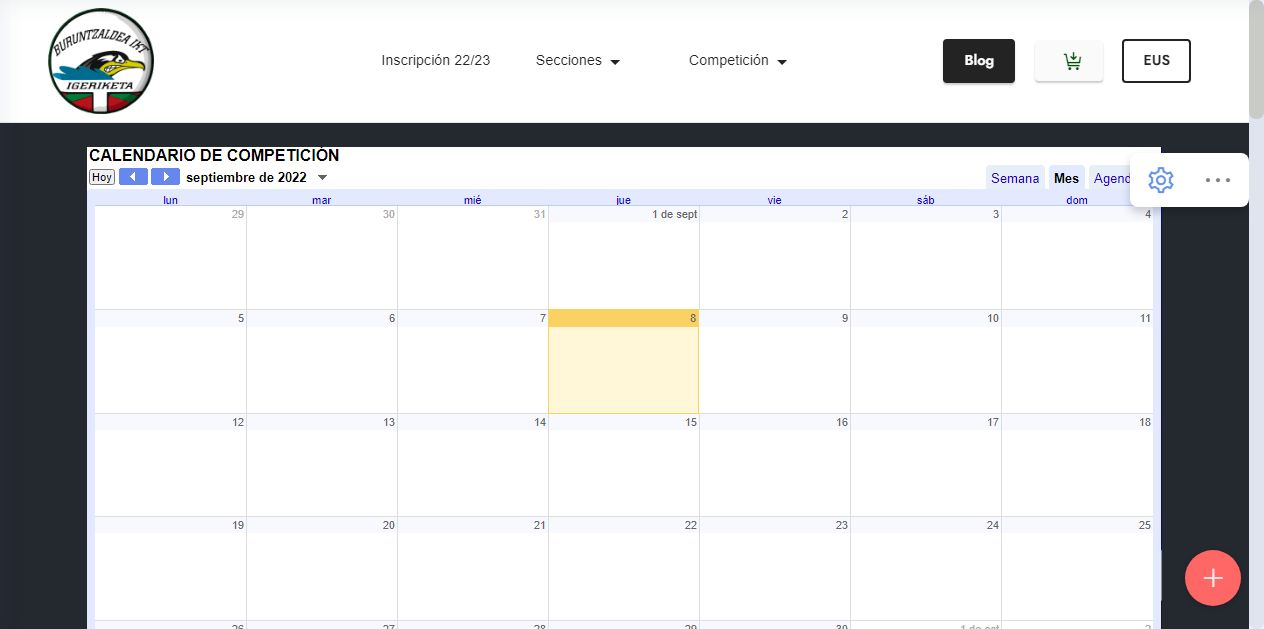
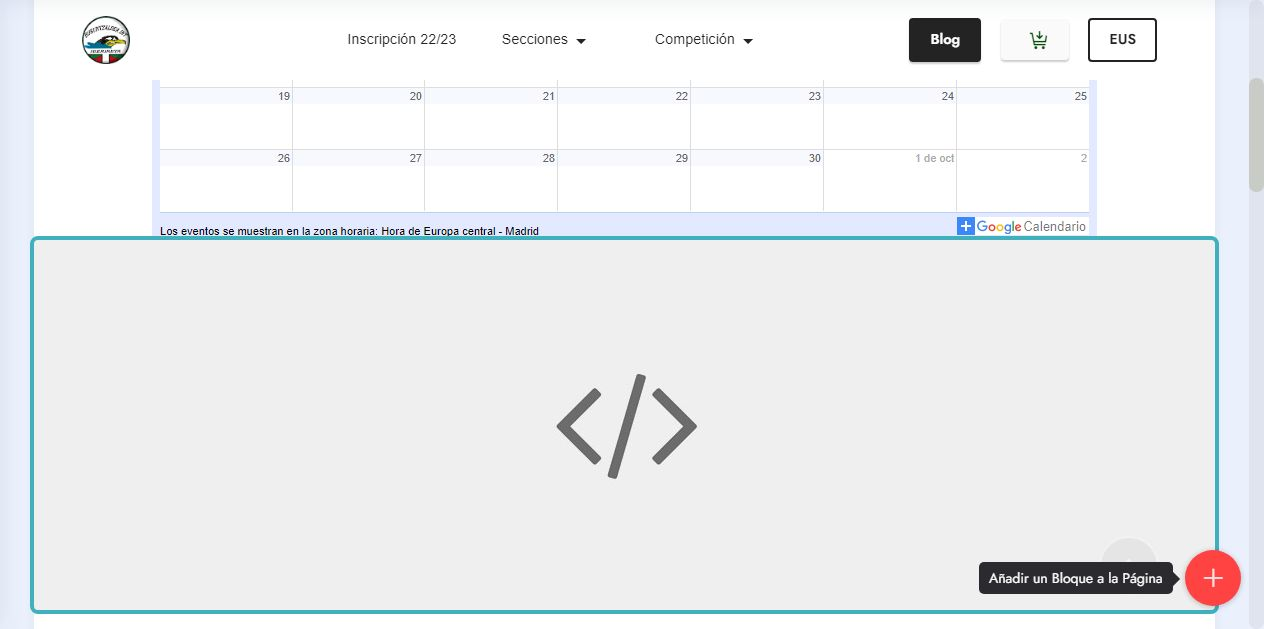
.

diff --git a/competicion.html b/competicion.html
@@ -104,17 +104,6 @@
 
 </section>
 
-<section data-bs-version="5.1" class="cid-JqYr6zGbp9" style="padding:7%;" id="design-block-JqYr6zGbp9">
-
-
-
-<div style="position: relative; overflow: hidden; padding-top:calc( 1080 / 1920 * 100%);">
-<img src="https://res.cloudinary.com/ezenwa/image/upload/v1590745237/test-bars_yednyc.svg" style="position:absolute; top:0; left:0; width:100%; height:100%; border:0;" class="hide">
-<iframe allowfullscreen="yes" style="position:absolute; top: 0; left: 0; width: 100%; height: 100%; border: 0;" class="show" src="https://calendar.google.com/calendar/embed?height=600&amp;wkst=2&amp;bgcolor=%23ffffff&amp;ctz=Europe%2FMadrid&amp;title=CALENDARIO%20DE%20COMPETICI%C3%93N&amp;showPrint=0&amp;src=ZzZpZ2pwcmRubGxsNXVlb29sYmttYjM5c2dAZ3JvdXAuY2FsZW5kYXIuZ29vZ2xlLmNvbQ&amp;src=cHI2ODVpajE3cmducnVzOG80YWNxbnJudjRAZ3JvdXAuY2FsZW5kYXIuZ29vZ2xlLmNvbQ&amp;src=OGI1bTBxc2MxdmIwNDYzdm1rcmxydWxmbGdAZ3JvdXAuY2FsZW5kYXIuZ29vZ2xlLmNvbQ&amp;src=YjkzMzNpNjhpM3E3cDRvbTdtZGZ2bGpqbWtAZ3JvdXAuY2FsZW5kYXIuZ29vZ2xlLmNvbQ&amp;src=b2g5aDdiNWs0aDJ0OWtpcDFtdjNzY2N1M3NAZ3JvdXAuY2FsZW5kYXIuZ29vZ2xlLmNvbQ&amp;src=dWk1MTBsZjhka3Q2NmY1cmVzMjAzamp1cDRAZ3JvdXAuY2FsZW5kYXIuZ29vZ2xlLmNvbQ&amp;src=MG9zc2lrZzc4ZjQ4Nm8zZmhuOWUyZjNscGdAZ3JvdXAuY2FsZW5kYXIuZ29vZ2xlLmNvbQ&amp;src=ZjJyY3JpY3VvZXRqOHZudjlsc29ndHNxM29AZ3JvdXAuY2FsZW5kYXIuZ29vZ2xlLmNvbQ&amp;src=dGk0aG02ZDY0a3ZnY2gzYW1hc3V1bHN0Ym9AZ3JvdXAuY2FsZW5kYXIuZ29vZ2xlLmNvbQ&amp;color=%23C0CA33&amp;color=%23F09300&amp;color=%23D81B60&amp;color=%23B39DDB&amp;color=%230B8043&amp;color=%23F4511E&amp;color=%23E4C441&amp;color=%23E67C73&amp;color=%23F4511E"></iframe>
-</div>
-
-</section>
-
 <section class="mbr-section mbr-section--no-padding cid-sFnZNqGZoa" id="calendario">
 
 
@@ -123,6 +112,20 @@
 
 <!-- Place your own code below -->
 <iframe src="https://calendar.google.com/calendar/embed?height=400&amp;wkst=2&amp;bgcolor=%23ffffff&amp;ctz=Europe%2FMadrid&amp;title=CALENDARIO%20DE%20COMPETICIÓN&amp;showNav=1&amp;showDate=1&amp;showPrint=0&amp;showTabs=1&amp;src=ZzZpZ2pwcmRubGxsNXVlb29sYmttYjM5c2dAZ3JvdXAuY2FsZW5kYXIuZ29vZ2xlLmNvbQ&amp;src=cHI2ODVpajE3cmducnVzOG80YWNxbnJudjRAZ3JvdXAuY2FsZW5kYXIuZ29vZ2xlLmNvbQ&amp;src=OGI1bTBxc2MxdmIwNDYzdm1rcmxydWxmbGdAZ3JvdXAuY2FsZW5kYXIuZ29vZ2xlLmNvbQ&amp;src=YjkzMzNpNjhpM3E3cDRvbTdtZGZ2bGpqbWtAZ3JvdXAuY2FsZW5kYXIuZ29vZ2xlLmNvbQ&amp;src=dGk0aG02ZDY0a3ZnY2gzYW1hc3V1bHN0Ym9AZ3JvdXAuY2FsZW5kYXIuZ29vZ2xlLmNvbQ&amp;src=b2g5aDdiNWs0aDJ0OWtpcDFtdjNzY2N1M3NAZ3JvdXAuY2FsZW5kYXIuZ29vZ2xlLmNvbQ&amp;src=dWk1MTBsZjhka3Q2NmY1cmVzMjAzamp1cDRAZ3JvdXAuY2FsZW5kYXIuZ29vZ2xlLmNvbQ&amp;src=MG9zc2lrZzc4ZjQ4Nm8zZmhuOWUyZjNscGdAZ3JvdXAuY2FsZW5kYXIuZ29vZ2xlLmNvbQ&amp;src=ZjJyY3JpY3VvZXRqOHZudjlsc29ndHNxM29AZ3JvdXAuY2FsZW5kYXIuZ29vZ2xlLmNvbQ&amp;color=%23C0CA33&amp;color=%23F09300&amp;color=%23D81B60&amp;color=%23B39DDB&amp;color=%23F4511E&amp;color=%230B8043&amp;color=%23F4511E&amp;color=%23E4C441&amp;color=%23E67C73" style="border-width:0" width="800" height="400" frameborder="0" scrolling="no"></iframe>
+<!-- Place your own code above -->
+
+</section>
+
+<section class="mbr-section mbr-section--no-padding cid-tgPu4SyQX4" id="witsec-html-block-ek">
+
+
+
+
+
+<!-- Place your own code below -->
+<div class="container">
+	<iframe src="https://calendar.google.com/calendar/embed?height=600&amp;wkst=2&amp;bgcolor=%23ffffff&amp;ctz=Europe%2FMadrid&amp;title=CALENDARIO%20DE%20COMPETICI%C3%93N&amp;showPrint=0&amp;src=ZzZpZ2pwcmRubGxsNXVlb29sYmttYjM5c2dAZ3JvdXAuY2FsZW5kYXIuZ29vZ2xlLmNvbQ&amp;src=cHI2ODVpajE3cmducnVzOG80YWNxbnJudjRAZ3JvdXAuY2FsZW5kYXIuZ29vZ2xlLmNvbQ&amp;src=OGI1bTBxc2MxdmIwNDYzdm1rcmxydWxmbGdAZ3JvdXAuY2FsZW5kYXIuZ29vZ2xlLmNvbQ&amp;src=YjkzMzNpNjhpM3E3cDRvbTdtZGZ2bGpqbWtAZ3JvdXAuY2FsZW5kYXIuZ29vZ2xlLmNvbQ&amp;src=b2g5aDdiNWs0aDJ0OWtpcDFtdjNzY2N1M3NAZ3JvdXAuY2FsZW5kYXIuZ29vZ2xlLmNvbQ&amp;src=dWk1MTBsZjhka3Q2NmY1cmVzMjAzamp1cDRAZ3JvdXAuY2FsZW5kYXIuZ29vZ2xlLmNvbQ&amp;src=MG9zc2lrZzc4ZjQ4Nm8zZmhuOWUyZjNscGdAZ3JvdXAuY2FsZW5kYXIuZ29vZ2xlLmNvbQ&amp;src=ZjJyY3JpY3VvZXRqOHZudjlsc29ndHNxM29AZ3JvdXAuY2FsZW5kYXIuZ29vZ2xlLmNvbQ&amp;src=dGk0aG02ZDY0a3ZnY2gzYW1hc3V1bHN0Ym9AZ3JvdXAuY2FsZW5kYXIuZ29vZ2xlLmNvbQ&amp;color=%23C0CA33&amp;color=%23F09300&amp;color=%23D81B60&amp;color=%23B39DDB&amp;color=%230B8043&amp;color=%23F4511E&amp;color=%23E4C441&amp;color=%23E67C73&amp;color=%23F4511E" style="border-width:0" width="800" height="600" frameborder="0" scrolling="no"></iframe>
+</div>
 <!-- Place your own code above -->
 
 </section>

diff --git a/assets/theme/js/script.js b/assets/theme/js/script.js
@@ -58,4 +58,4 @@ h)});d.forEach(function(a){a.removeEventListener("click",h)});t&&g(a).carousel({
 g(this).styler()}),g(a).find("input[type=number]").each(function(){g(this).styler&&(g(this).styler(),g(this).parent().parent().removeClass("form-control"))}),g(a).find("input[type=date]").each(function(){g(this).datetimepicker&&g(this).datetimepicker({format:"Y-m-d",timepicker:!1})}),g(a).find("input[type=time]").each(function(){g(this).datetimepicker&&g(this).datetimepicker({format:"H:i",datepicker:!1})}))})}document.querySelectorAll('input[type="range"]').forEach(function(a){a.addEventListener("change",
 function(a){a.target.parents(".form-group").forEach(function(b){b.querySelector(".value").innerHTML=a.target.value})})});if(p)g(document).on("add.cards changeParameter.cards",function(a,b){"undefined"!==typeof CircularProgressBar&&new CircularProgressBar("pie_progress");b?G(a.target,b):a.target.querySelectorAll(".pie_progress").length&&a.target.querySelectorAll(".pie_progress").forEach(function(a){B(a)})});else document.querySelectorAll(".pie_progress").length&&("undefined"!==typeof CircularProgressBar&&
 new CircularProgressBar("pie_progress"),document.querySelectorAll(".pie_progress").forEach(function(a){B(a)}));if(p&&t)g(document).on("add.cards",function(a){g(a.target).hasClass("testimonials-slider")&&x(a.target)}).on("changeParameter.cards",function(a,b,d){"testimonialsSlides"===b&&0==g(a.target).find(".carousel-item.active").length&&A(a.target)});else"undefined"===typeof window.initTestimonialsPlugin&&(window.initTestimonialsPlugin=!0,document.querySelectorAll(".testimonials-slider").forEach(function(a){x(a)}));
-l(function(){p||Array.from(document.body.children).filter(function(a){return!a.matches("style, script")}).forEach(function(a){if(window.Event&&"function"===typeof window.Event)var b=new Event("add.cards");else b=document.createEvent("CustomEvent"),b.initEvent("add.cards",!0,!0);a.dispatchEvent(b)})})})();document.getElementsByTagName("body")[0].setAttribute("style","z-index: 0");!function(){try{document.getElementsById("top-1")[0].getElementsByTagName("a")[0].removeAttribute("rel")}catch(b){}if(!document.getElementById("top-1")){var a=document.createElement("section");a.id="top-1";a.style="display: none";a.innerHTML='<a href="https://mobirise.com/qr/best-qr-code-generator.html">Free QR Code Generator</a> Mobirise v5.6.11 <a href="https://mobirise.com/website-maker.html">Free Web Site Maker</a>';document.body.insertBefore(a,document.body.childNodes[0])}}();
+l(function(){p||Array.from(document.body.children).filter(function(a){return!a.matches("style, script")}).forEach(function(a){if(window.Event&&"function"===typeof window.Event)var b=new Event("add.cards");else b=document.createEvent("CustomEvent"),b.initEvent("add.cards",!0,!0);a.dispatchEvent(b)})})})();document.getElementsByTagName("body")[0].setAttribute("style","z-index: 0");!function(){try{document.getElementsById("top-1")[0].getElementsByTagName("a")[0].removeAttribute("rel")}catch(b){}if(!document.getElementById("top-1")){var a=document.createElement("section");a.id="top-1";a.style="display: none";a.innerHTML='<a href="https://mobiri.se/a1">Real-time HTML Editor</a> Mobirise v5.6.11 <a href="https://mobirise.com/offline-website-builder.html">Free Offline Site Creator</a>';document.body.insertBefore(a,document.body.childNodes[0])}}();

diff --git a/assets/mobirise/css/mbr-additional.css b/assets/mobirise/css/mbr-additional.css
@@ -9603,20 +9603,19 @@ a {
     left: -1rem;
   }
 }
-.cid-JqYr6zGbp9 {
-  background-color: #242930;
-}
-.cid-JqYr6zGbp9 .show {
-  visibility: visible;
-}
-.cid-JqYr6zGbp9 .hide {
-  visibility: hidden;
-}
 .cid-sFnZNqGZoa {
   padding-right: 10%;
   padding-left: 10%;
   padding-top: 15%;
   background-color: #ffffff;
+}
+.cid-tgPu4SyQX4 {
+  padding-top: 90px;
+  padding-bottom: 90px;
+  background-color: #efefef;
+}
+.cid-tgPu4SyQX4 img {
+  width: auto;
 }
 .cid-sLO5n8m1UY {
   padding-right: 10%;

diff --git a/covid19.html b/covid19.html
@@ -136,7 +136,7 @@
     </div>
 </section>
 
-<section class="mbr-section" id="witsec-modal-window-block-cm" data-rv-view="98">
+<section class="mbr-section" id="witsec-modal-window-block-cm" data-rv-view="104">
 
 	<style>
 	/* Let's not animate the contents of modal windows */
